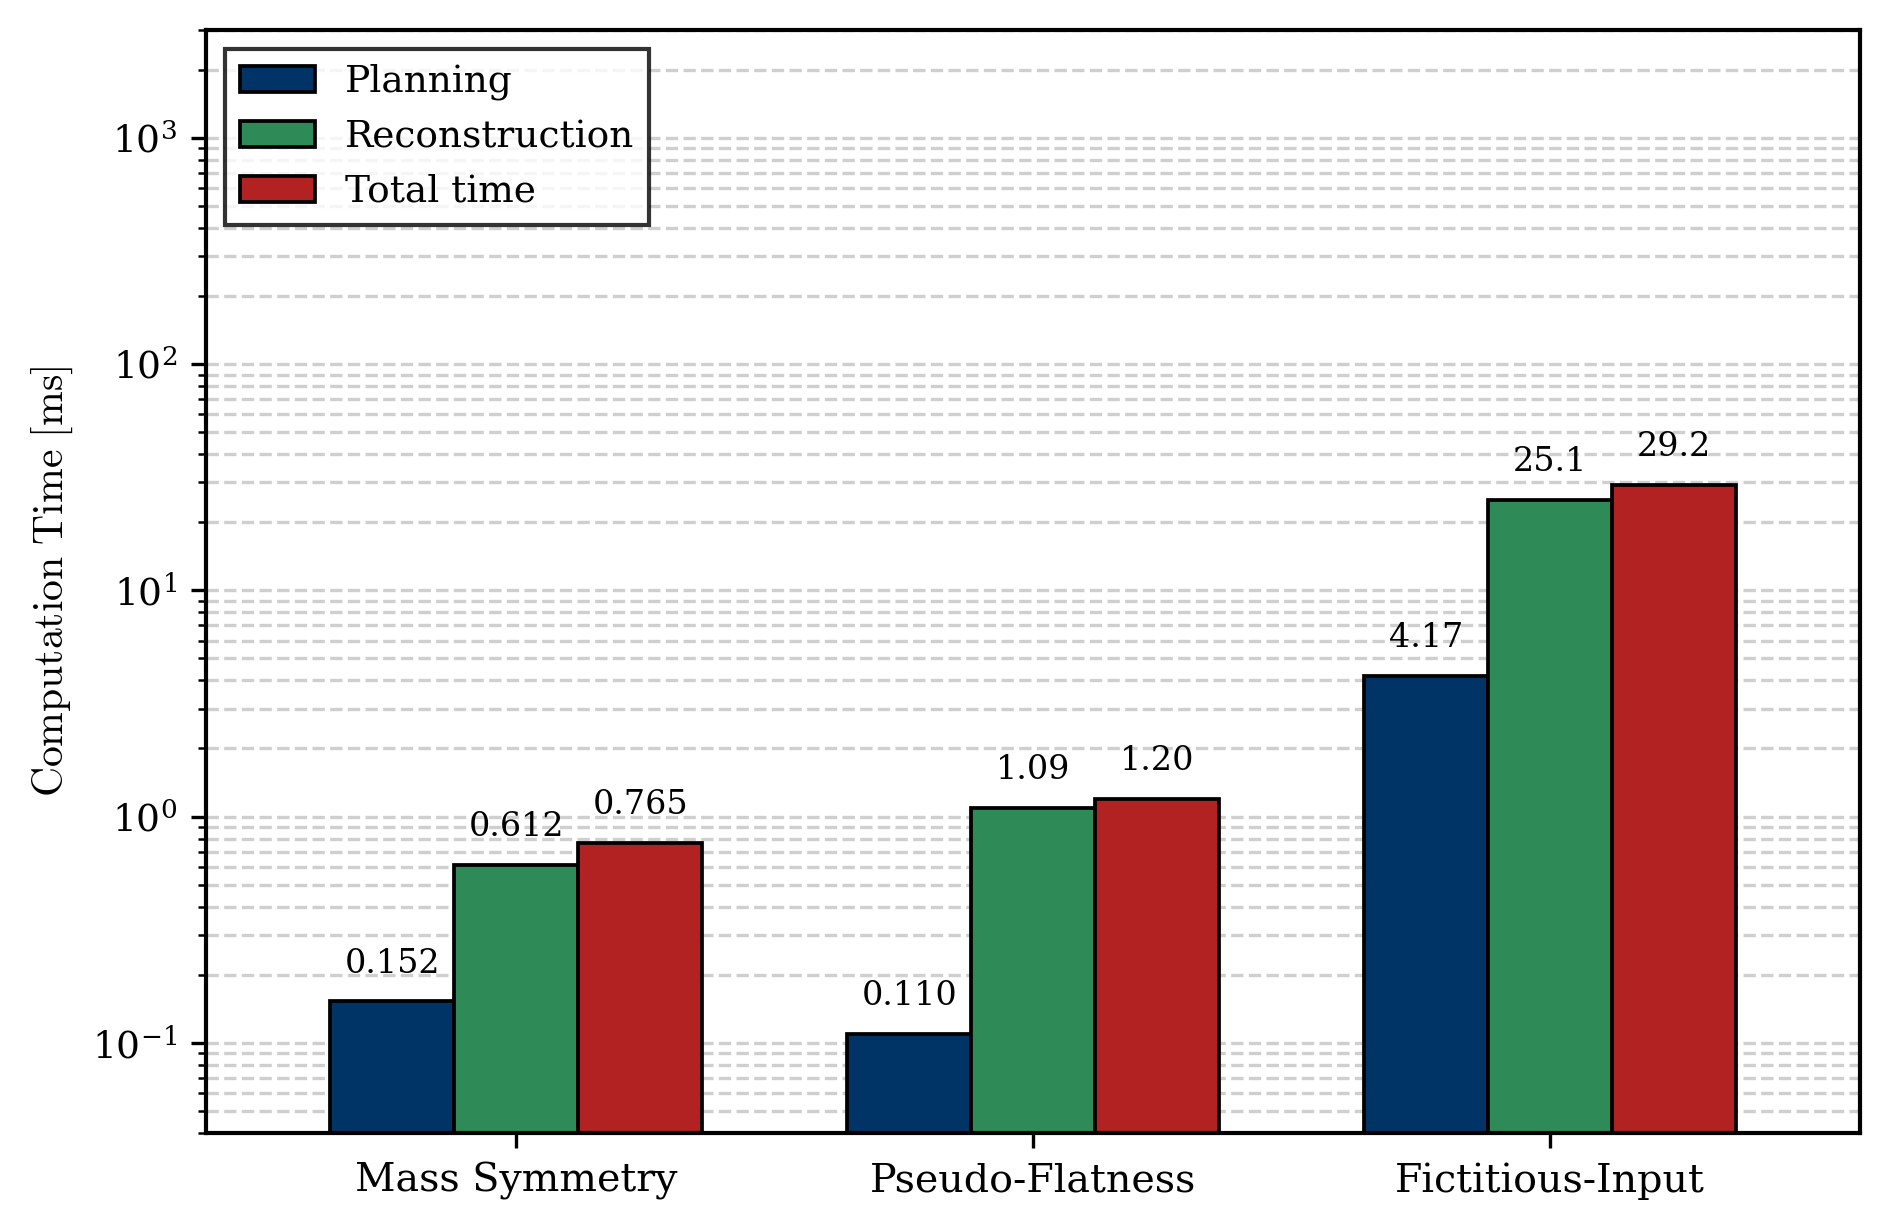
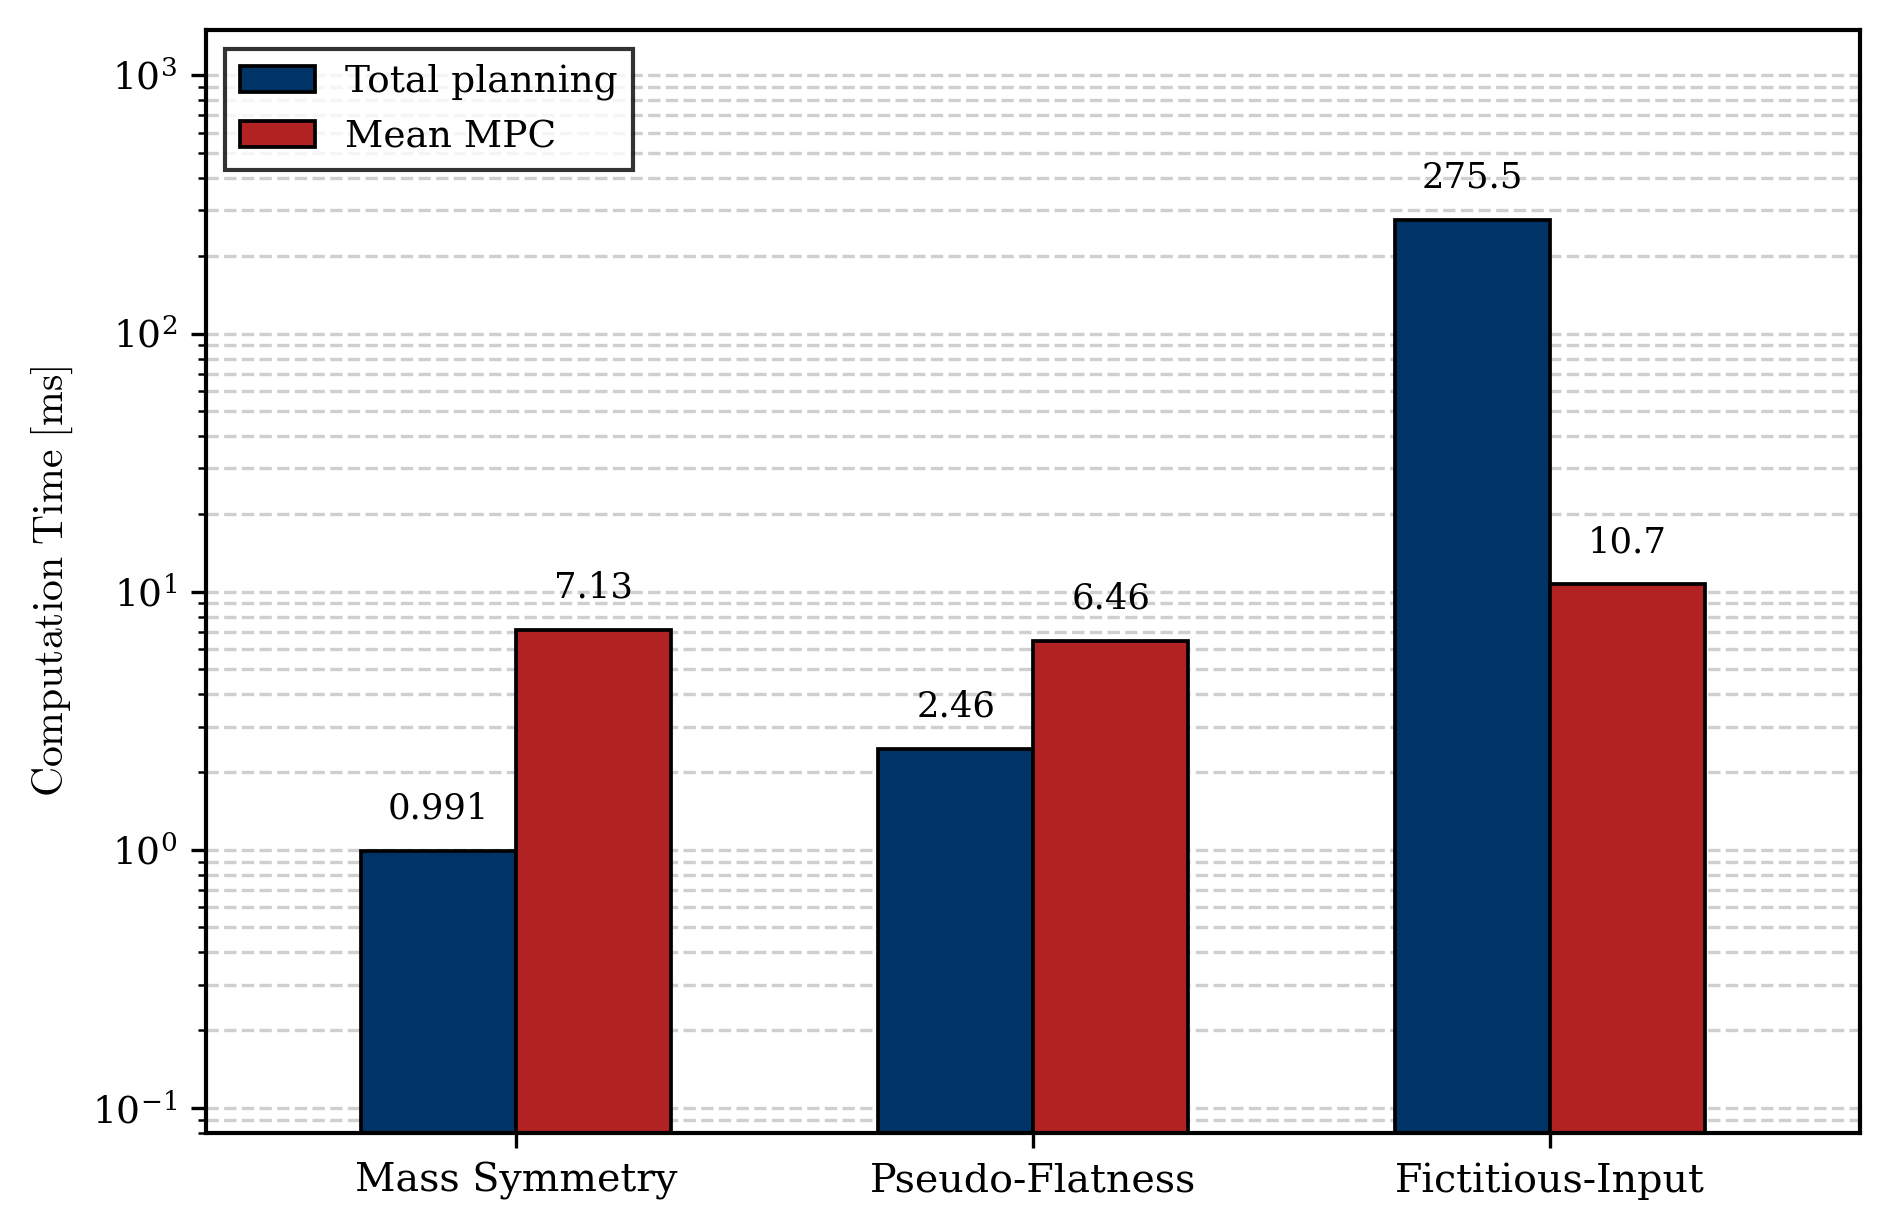
refactor: update case comparison script to evaluate RealtimeController planning and mean MPC metrics

Changed region(s): [[0.0624, 0.0309, 0.9989, 0.9268], [0.0624, 0.0309, 0.0937, 0.0618]]

diff --git a/comparison/compare_cases.py b/comparison/compare_cases.py
@@ -14,45 +14,45 @@ CASES = [
     {
         'key': 'case1',
         'label': 'Mass Symmetry',
-        'json_path': (FLATNESS_DIR / 'Mass_Symmetry' / 'OfflineResponse' / 'planning_metrics.json')
-                     if (FLATNESS_DIR / 'Mass_Symmetry' / 'OfflineResponse' / 'planning_metrics.json').exists()
-                     else (FLATNESS_DIR / 'case_1c' / 'planning_metrics.json'),
+        'dir': FLATNESS_DIR / 'Mass_Symmetry' / 'RealtimeController' / 'output',
     },
     {
         'key': 'case2',
         'label': 'Pseudo-Flatness',
-        'json_path': (FLATNESS_DIR / 'Pseudo-Flat_Reconstruction' / 'OfflineResponse' / 'planning_metrics.json')
-                     if (FLATNESS_DIR / 'Pseudo-Flat_Reconstruction' / 'OfflineResponse' / 'planning_metrics.json').exists()
-                     else (FLATNESS_DIR / 'case_2c' / 'planning_metrics.json'),
+        'dir': FLATNESS_DIR / 'Pseudo-Flat_Reconstruction' / 'RealtimeController' / 'output',
     },
     {
         'key': 'case3',
         'label': 'Fictitious-Input',
-        'json_path': (FLATNESS_DIR / 'Fictitious-Input_Full_Actuation' / 'OfflineResponse' / 'planning_metrics.json')
-                     if (FLATNESS_DIR / 'Fictitious-Input_Full_Actuation' / 'OfflineResponse' / 'planning_metrics.json').exists()
-                     else (FLATNESS_DIR / 'case_3' / 'planning_metrics.json'),
+        'dir': FLATNESS_DIR / 'Fictitious-Input_Full_Actuation' / 'RealtimeController' / 'output',
     }
 ]
 
 def load_metrics():
     data = []
     for c in CASES:
-        path = c['json_path']
-        if not path.exists():
-            raise FileNotFoundError(f"Metrics file not found for {c['label']} at: {path}")
-        with open(path, 'r') as f:
-            d = json.load(f)
+        output_dir = c['dir']
+        plan_file = output_dir / 'planning_metrics.json'
+        mpc_file = output_dir / 'mpc_controller_metrics.json'
 
-        t_plan = d.get('tiempo_qp_ms', d.get('solve_time_ms', 0.0))
-        t_flat = d.get('tiempo_planitud_ms', 0.0)
-        t_total = d.get('tiempo_total_ms', d.get('solve_time_ms', 0.0))
+        if not plan_file.exists():
+            raise FileNotFoundError(f"Planning metrics not found for {c['label']} at: {plan_file}")
+        if not mpc_file.exists():
+            raise FileNotFoundError(f"MPC metrics not found for {c['label']} at: {mpc_file}")
+
+        with open(plan_file, 'r') as fp:
+            dp = json.load(fp)
+        with open(mpc_file, 'r') as fm:
+            dm = json.load(fm)
+
+        t_planning_total = float(dp.get('tiempo_total_ms', dp.get('solve_time_ms', 0.0)))
+        t_mpc_mean = float(dm['solve_time_ms']['mean_solve_ms'])
 
         data.append({
             'key': c['key'],
             'label': c['label'],
-            'planning': float(t_plan),
-            'reconstruction': float(t_flat),
-            'total': float(t_total),
+            'planning_total': t_planning_total,
+            'mpc_mean': t_mpc_mean,
         })
     return data
 
@@ -74,32 +74,31 @@ def main():
     fig, ax = plt.subplots(figsize=(6.4, 4.2), dpi=300)
 
     labels = [m['label'] for m in metrics]
-    t_plan = [m['planning'] for m in metrics]
-    t_recon = [m['reconstruction'] for m in metrics]
-    t_total = [m['total'] for m in metrics]
+    t_planning = [m['planning_total'] for m in metrics]
+    t_mpc = [m['mpc_mean'] for m in metrics]
 
     x = np.arange(len(labels))
-    width = 0.24
+    width = 0.30
 
-    c_plan  = '#003366'
-    c_recon = '#2E8B57'
-    c_total = '#B22222'
+    c_plan = '#003366'  # Deep Navy Blue (original palette)
+    c_mpc  = '#B22222'  # Firebrick Red (original palette)
 
-    b1 = ax.bar(x - width, t_plan,  width, label='Planning',       color=c_plan,  edgecolor='black', linewidth=0.9)
-    b2 = ax.bar(x,         t_recon, width, label='Reconstruction', color=c_recon, edgecolor='black', linewidth=0.9)
-    b3 = ax.bar(x + width, t_total, width, label='Total time',     color=c_total, edgecolor='black', linewidth=0.9)
+    b1 = ax.bar(x - width / 2.0, t_planning, width, label='Total planning',
+                color=c_plan, edgecolor='black', linewidth=0.9)
+    b2 = ax.bar(x + width / 2.0, t_mpc,      width, label='Mean MPC',
+                color=c_mpc,  edgecolor='black', linewidth=0.9)
 
     ax.set_yscale('log')
     ax.set_ylabel(r'$\mathrm{Computation \ Time \ [ms]}$')
     ax.set_xticks(x)
     ax.set_xticklabels(labels, fontweight='normal')
     ax.set_xlim(-0.6, len(labels) - 0.4)
-    ax.set_ylim(0.04, 3000.0)
+    ax.set_ylim(0.08, 1500.0)
 
     ax.grid(True, which='both', axis='y', linestyle='--', alpha=0.6)
     ax.set_axisbelow(True)
 
-    for bar_group in (b1, b2, b3):
+    for bar_group in (b1, b2):
         for rect in bar_group:
             val = rect.get_height()
             if val <= 0:
@@ -116,7 +115,7 @@ def main():
                 txt,
                 ha='center',
                 va='bottom',
-                fontsize=8.0,
+                fontsize=8.5,
                 fontfamily='serif'
             )
 
@@ -139,9 +138,8 @@ def main():
     summary_data = {
         m['key']: {
             'case': m['label'],
-            'planning_ms': m['planning'],
-            'reconstruction_ms': m['reconstruction'],
-            'total_time_ms': m['total']
+            'total_planning_ms': m['planning_total'],
+            'mean_mpc_ms': m['mpc_mean']
         } for m in metrics
     }
     summary_json = SCRIPT_DIR / 'comparison_summary.json'
